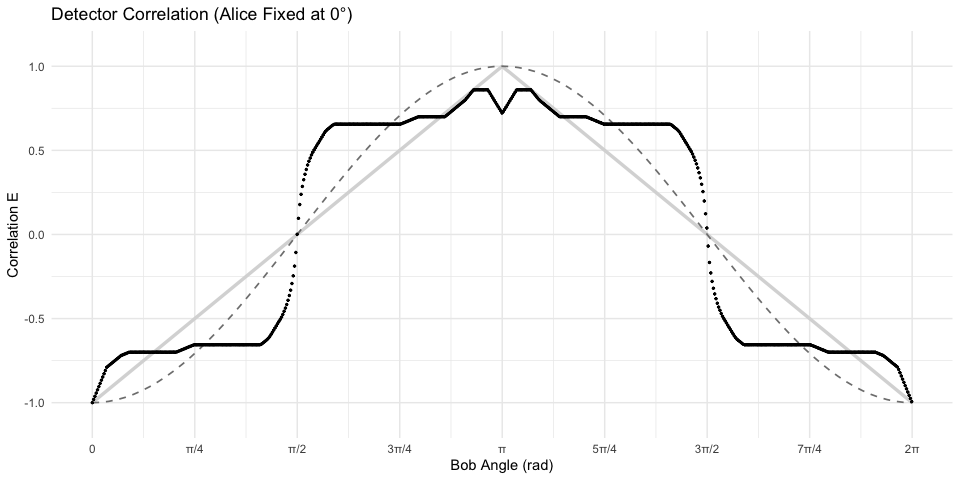
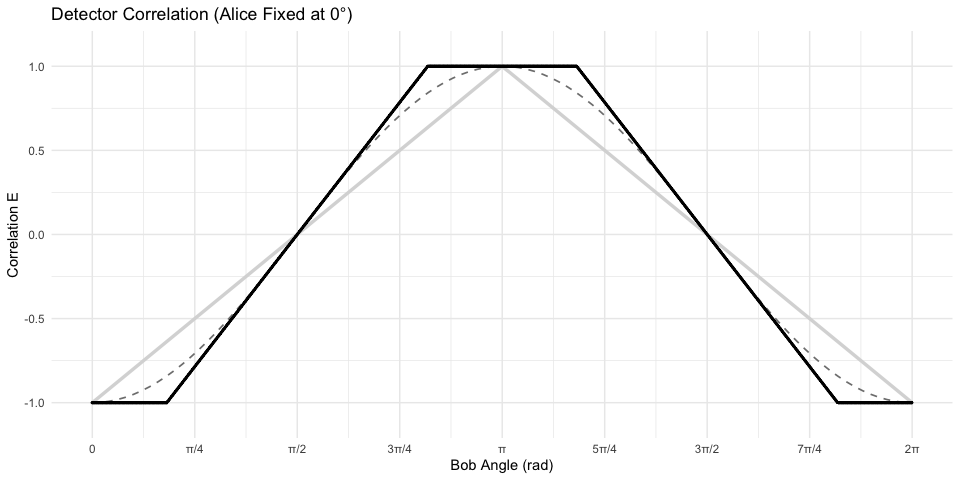
progress toward rotational invariance.

diff --git a/src/bell_test_simulator.cpp b/src/bell_test_simulator.cpp
@@ -47,20 +47,26 @@ void micro_macro_bell_erasure_sweep(
         (microstate_particle_angle_end - microstate_particle_angle_start) * ((double)j / (double)(count - 1));
 
       // 1. Contextual Alignment
-      double alpha = std::remainder(detector_angle_rad - microstate, 2.0 * M_PI);
-
-      double cos_alpha = std::abs(std::cos(alpha));
+      detector_angle_rad = std::remainder(detector_angle_rad, 2.0 * M_PI);
+      microstate = std::remainder(microstate, 2.0 * M_PI);
+      double alpha = std::remainder(microstate - detector_angle_rad, 2.0 * M_PI) / M_PI;
 
       // 2. Dynamic Erasure Window
-      double delta_phi = (1.0 / 2.0) * ((1.0 / cos_alpha) - 1.0);
+      // double delta_phi = ((1.0 / std::abs(std::cos(alpha))) - 1.0);
+      // double delta_phi = 1.0 * std::abs(std::cos(alpha));
 
+      double delta_phi = 1.0;
+
+      // double delta_phi = (sqrt(5.0) + 1.0) / 2.0;
+      // double delta_phi = 300.0;
+      // double delta_phi = 0.1;
       // 3. Execute Native Erasure
       EraseResult erasure = erase_single_native(alpha, delta_phi, max_depth);
 
       // 4. Map to Macrostates
-      double particle_angle = erasure.found ? erasure.erasure_distance : 0.0;
-      double phase = detector_angle_rad - particle_angle;
-      int spin = std::cos(phase) >= 0 ? 1 : -1;
+      double erasure_distance = erasure.found ? erasure.erasure_distance : 0.0;
+      double particle_angle = detector_angle_rad + erasure_distance;
+      int spin = std::cos(particle_angle) >= 0 ? 1 : -1;
 
       // Write Row (using %f for radians instead of degrees)
       gzprintf(file, "%.6f,%d,%.6f,%.6f,%.6f,%.6f,%.0f,%.0f,%s,%s,%d,%.6f,%d,%d,%d,%d\n",

diff --git a/bell_test.md b/bell_test.md
@@ -3,11 +3,11 @@ Bell Test: Symplectic Contextual Erasure
 
 ## Statistical Summary
 
-| Metric              | Value      |
-|:--------------------|:-----------|
-| **CHSH S-Value**    | **1.3297** |
-| **Classical Limit** | 2.0        |
-| **Quantum Limit**   | 2.828      |
+| Metric              | Value       |
+|:--------------------|:------------|
+| **CHSH S-Value**    | **1.14159** |
+| **Classical Limit** | 2.0         |
+| **Quantum Limit**   | 2.828       |
 
 ------------------------------------------------------------------------
 
@@ -31,10 +31,10 @@ $(\theta_B - \theta_A)$.
 ### CHSH Breakdown
 
 ``` text
-E(0,  pi/4):  -0.6559
-E(0, 3pi/4):   0.6559
-E(90, pi/4):  -0.0003
-E(90, 3pi/4): -0.0177
+E(0,  pi/4):  -0.7854
+E(0, 3pi/4):   0.7854
+E(90, pi/4):   0.2146
+E(90, 3pi/4):  0.2146
 -----------------------
-S-Value:       1.3297
+S-Value:       1.1416
 ```
